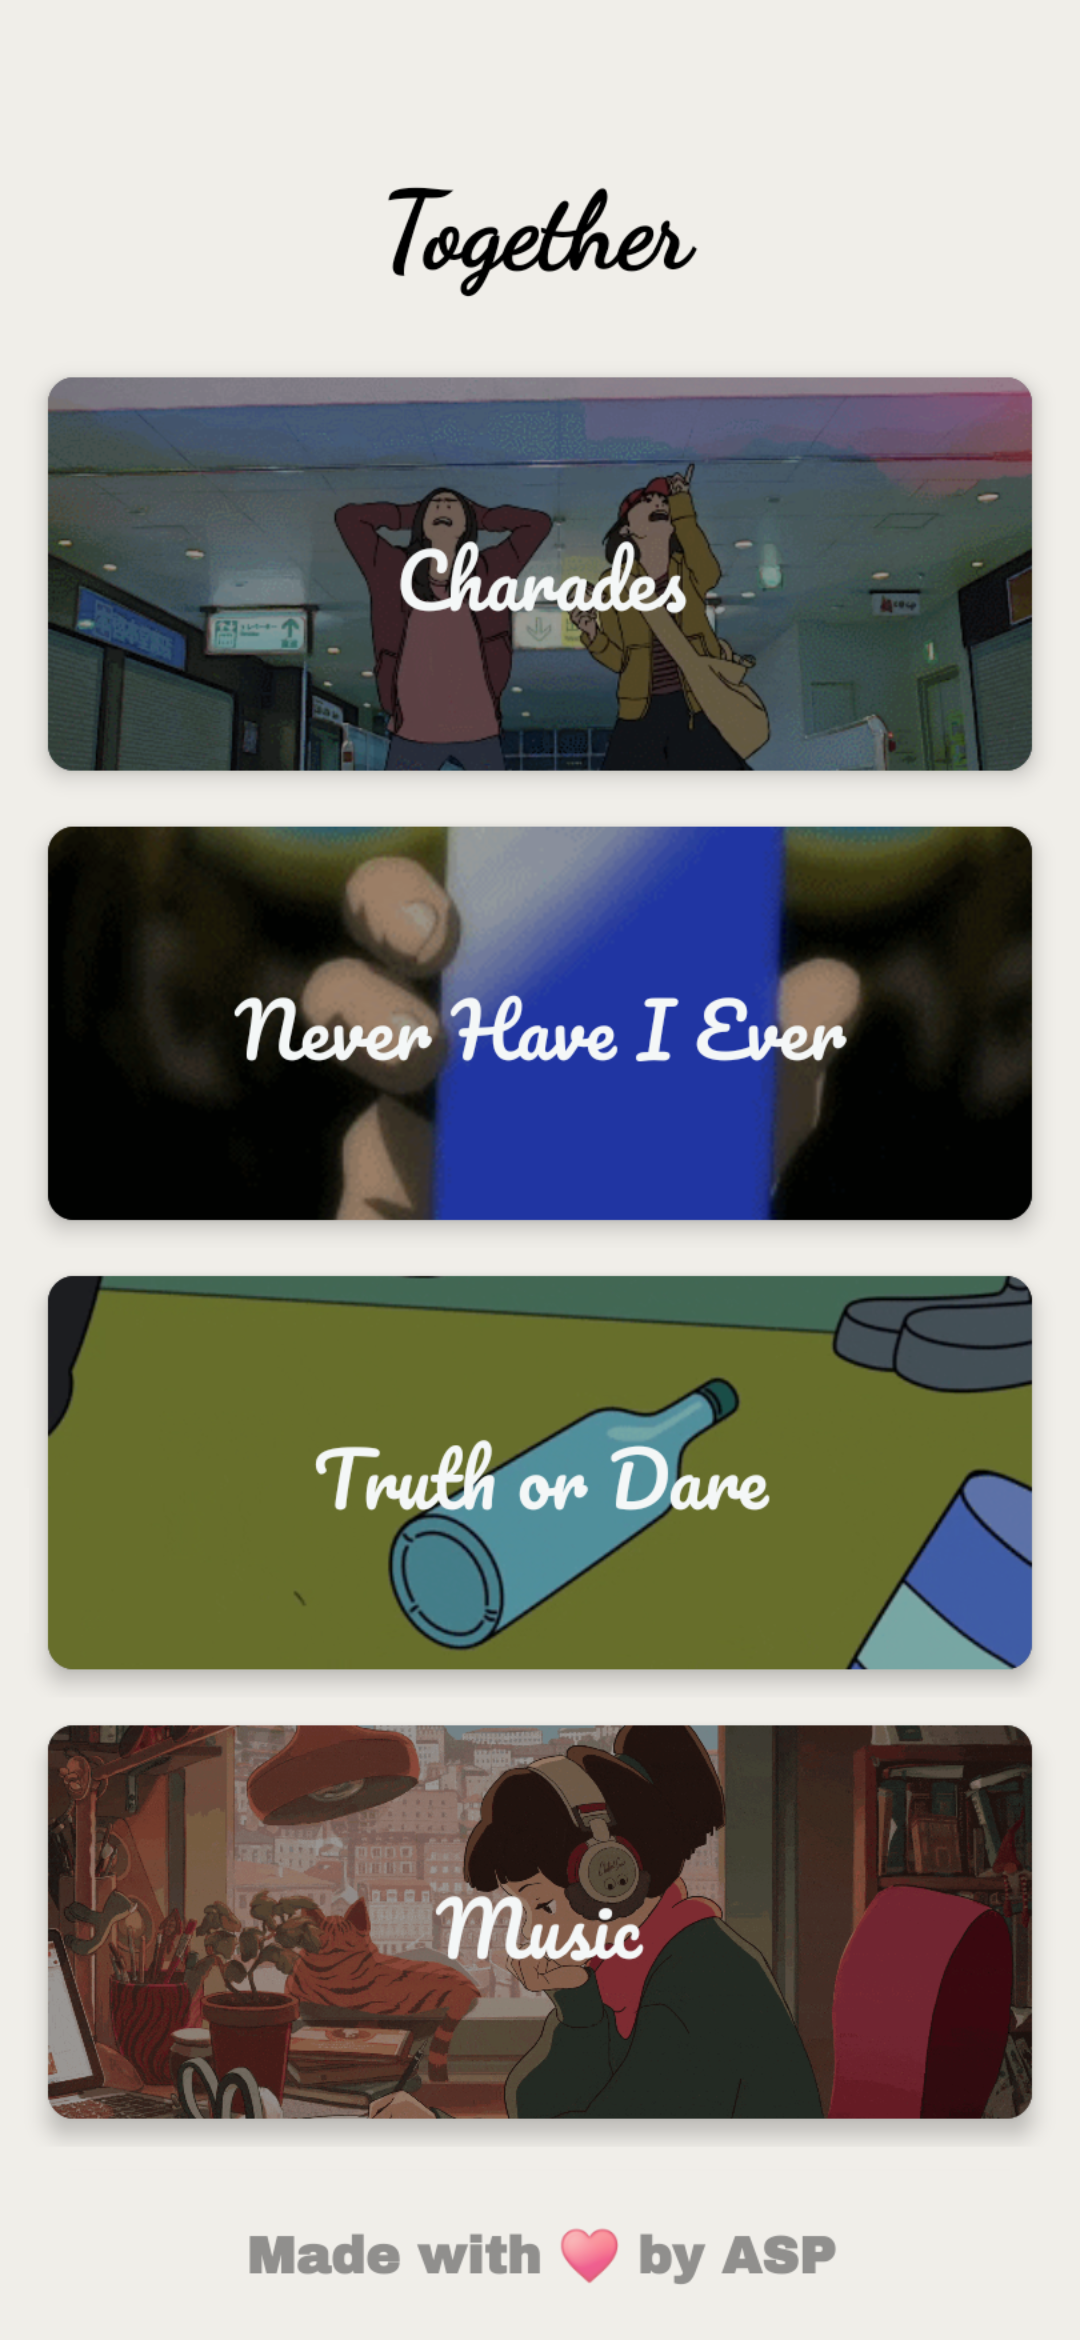
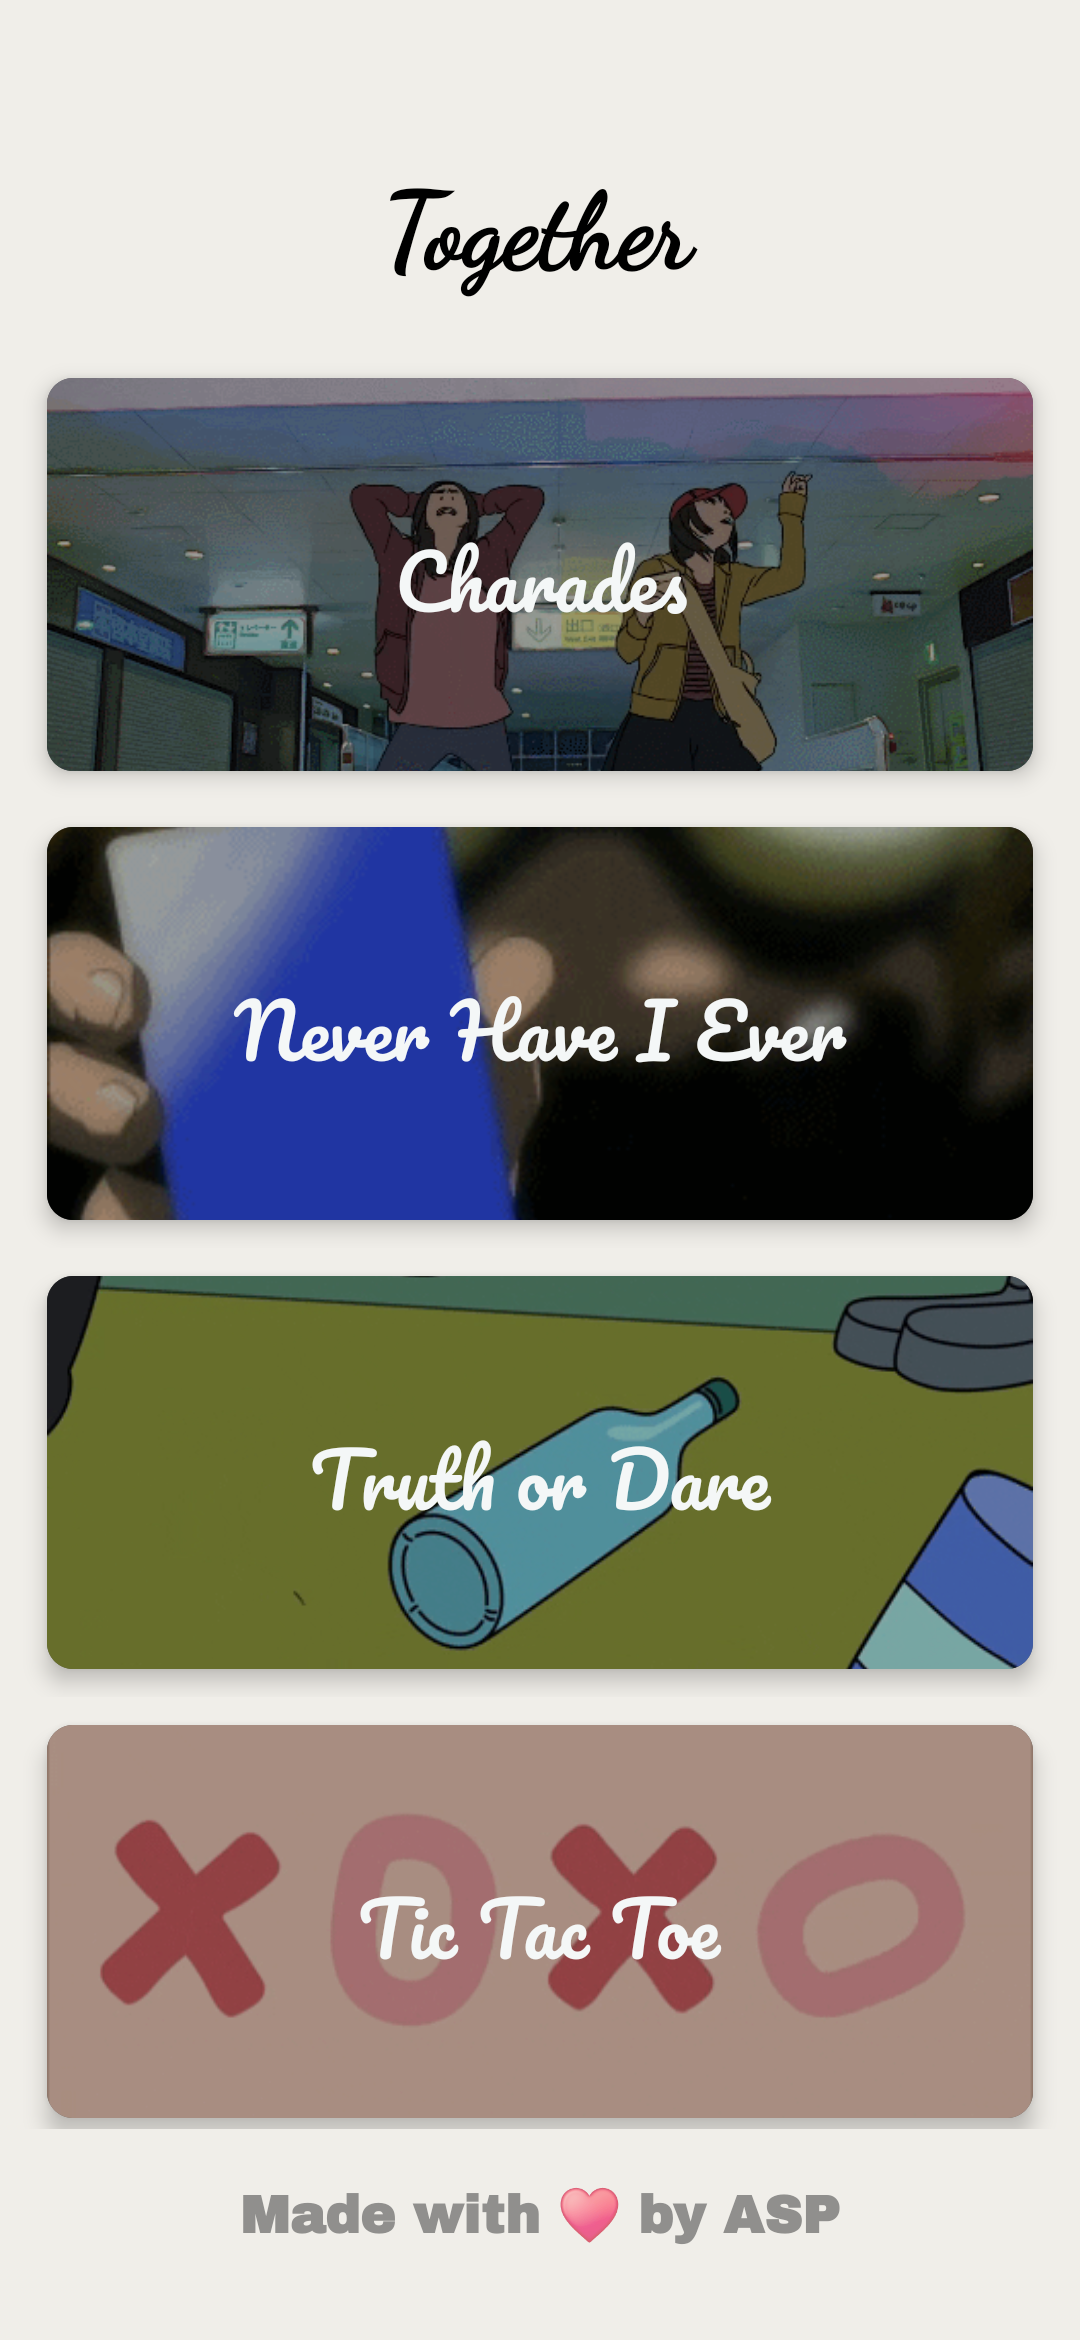
README update: Add Tic Tac Toe entry and screenshot
Add a new 'Tic Tac Toe' activity to README and adjust list formatting for 'Truth or Dare'. Include the new screenshot asset (readme_asset/TogetherApp-TTT.png) in the screenshots section and update the Home page image (readme_asset/TogetherApp-Home_page.png) binary.

diff --git a/README.md b/README.md
@@ -12,7 +12,9 @@ The app provides activities like:
 
  - **Charades:** Act out the name by using different gestures, facial expressions, and body language. You are not allowed to talk. Long press title text to switch between Bollywood & Hollywood catalog."
 
-  - **Truth or Dare:** A classic social party game that relies on players choosing between being honest or being bold. It’s a staple for breaking the ice and learning secrets.
+ - **Truth or Dare:** A classic social party game that relies on players choosing between being honest or being bold. It’s a staple for breaking the ice and learning secrets.
+ 
+ - **Tic Tac Toe:** A classic two-player strategy game played on a 3x3 grid. Be the first player to place three of your marks in a continuous line— horizontally, vertically, or diagonally.
 
  - Stay tuned for more...
 
@@ -22,4 +24,4 @@ The app provides activities like:
  - And, last but not least, this app will always be ad free, because I personally hate ads.
 
 ## Screenshots
-<img src="/readme_asset/TogetherApp-Home_page.png" alt="Home Page" height="500"/> <img src="/readme_asset/TogetherApp-Charades.png" alt="Charades Page" height="500"/> <img src="/readme_asset/TogetherApp-NHIE.png" alt="NHIE Page" height="500"/> <img src="/readme_asset/TogetherApp-NHIE_Swiped.png" alt="NHIE Swiped Page" height="500"/> <img src="/readme_asset/TogetherApp-NHIE_Dark_Swiped.png" alt="NHIE Dark Swiped Page" height="500"/> <img src="/readme_asset/TogetherApp-TOD.png" alt="TOD Page" height="500"/> <img src="/readme_asset/TogetherApp-TOD_Expanded.png" alt="TOD expanded Page" height="500"/> <img src="/readme_asset/TogetherApp-About_page.png" alt="About Page" height="500"/>
+<img src="/readme_asset/TogetherApp-Home_page.png" alt="Home Page" height="500"/> <img src="/readme_asset/TogetherApp-Charades.png" alt="Charades Page" height="500"/> <img src="/readme_asset/TogetherApp-NHIE.png" alt="NHIE Page" height="500"/> <img src="/readme_asset/TogetherApp-NHIE_Swiped.png" alt="NHIE Swiped Page" height="500"/> <img src="/readme_asset/TogetherApp-NHIE_Dark_Swiped.png" alt="NHIE Dark Swiped Page" height="500"/> <img src="/readme_asset/TogetherApp-TOD.png" alt="TOD Page" height="500"/> <img src="/readme_asset/TogetherApp-TOD_Expanded.png" alt="TOD expanded Page" height="500"/> <img src="/readme_asset/TogetherApp-TTT.png" alt="About Page" height="500"/> <img src="/readme_asset/TogetherApp-About_page.png" alt="About Page" height="500"/>
